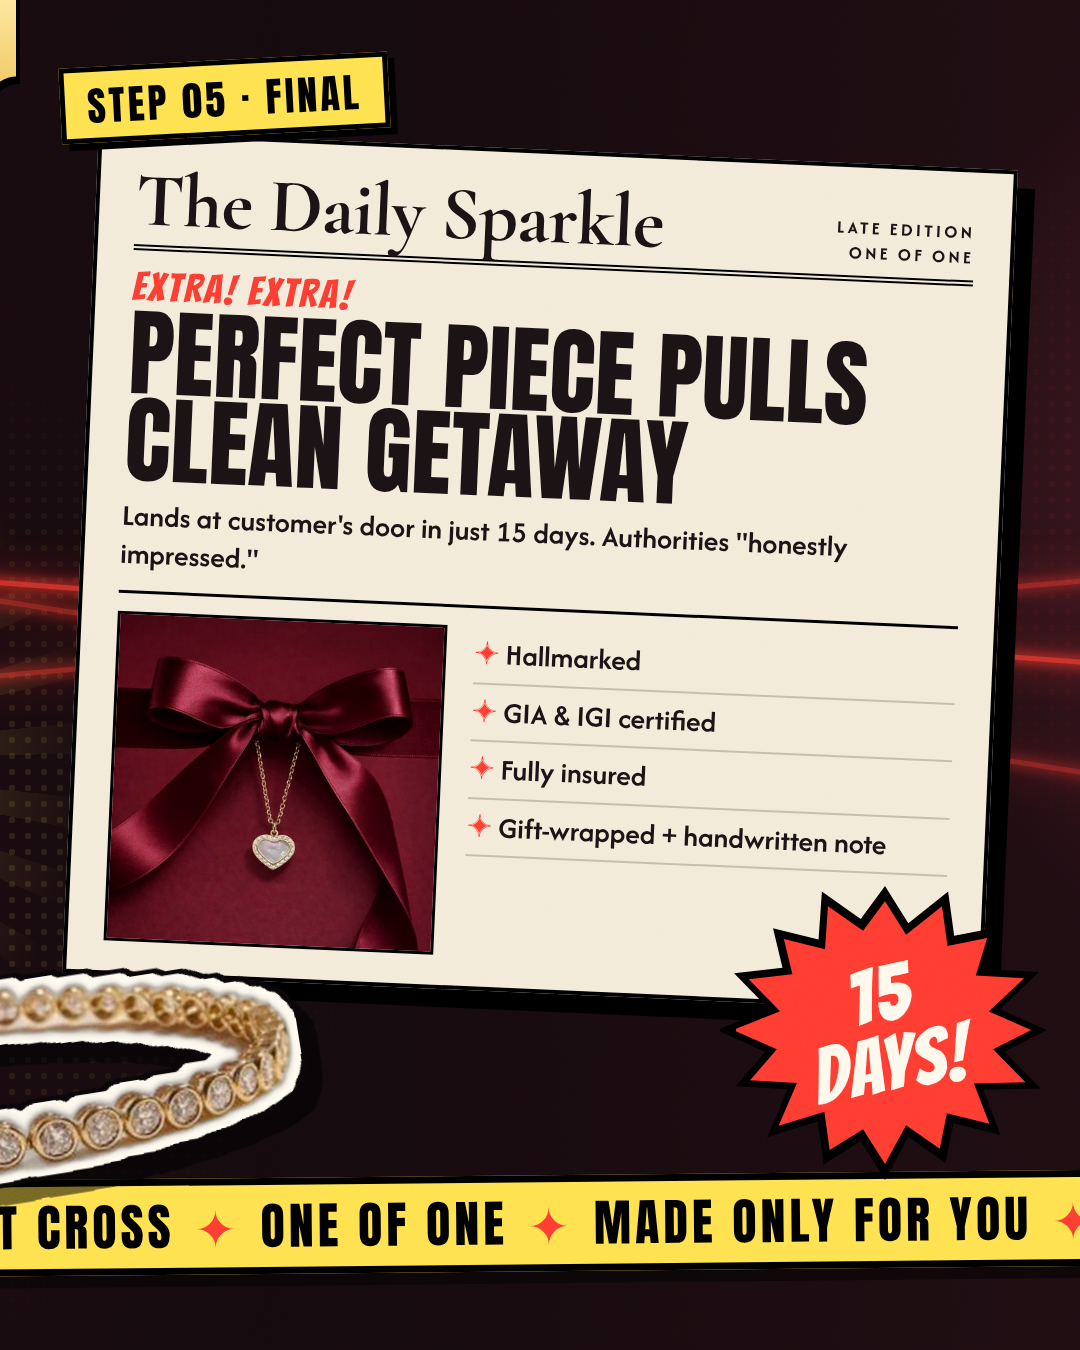
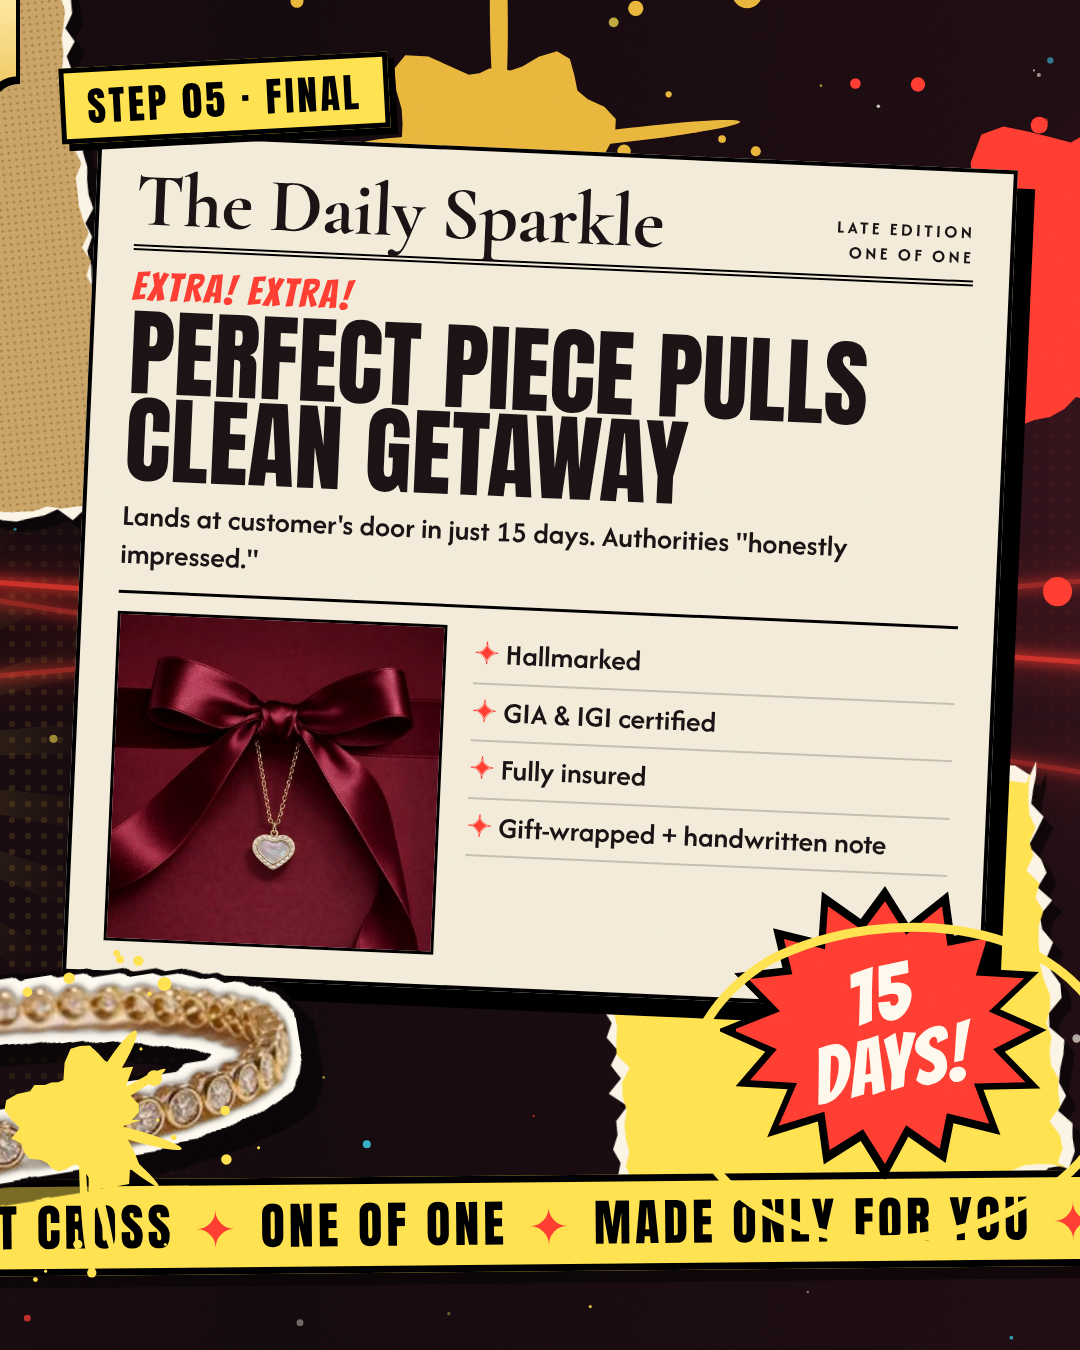
Heist carousel: add torn paper, paint splatter, ransom letters and marker scribbles
Claude-Session: https://claude.ai/code/session_01VXfb5SGCGkjs1XorxtizRz

diff --git a/carousels/takshila-heist/heist.html b/carousels/takshila-heist/heist.html
@@ -48,7 +48,7 @@ body{background:#000;padding:0}
 .x3d.iv{color:var(--ivory)} .x3d.cy{color:var(--cyan)} .x3d.rd{color:var(--red)}
 .bang{font-family:var(--B);letter-spacing:.03em;color:var(--ivory);-webkit-text-stroke:4px #000;paint-order:stroke fill;text-shadow:6px 6px 0 #000}
 .pill{display:inline-block;font:400 40px/1 var(--A);letter-spacing:.08em;text-transform:uppercase;background:var(--yel);color:#000;padding:14px 22px 12px;border:5px solid #000;box-shadow:7px 7px 0 #000;transform:rotate(-3deg)}
-.body{font:600 34px/1.3 var(--S);color:var(--ivory);text-shadow:0 2px 0 #000}
+.body{font:600 34px/1.3 var(--S);color:var(--ivory);background:#0A0608;padding:12px 18px;box-shadow:7px 7px 0 rgba(255,59,48,.9);transform:rotate(-1deg)}
 .body em{font-style:normal;color:var(--yel)}
 .marker{font-family:var(--M);color:var(--yel)}
 
@@ -105,6 +105,23 @@ body{background:#000;padding:0}
 .logo{position:absolute;height:58px;z-index:50;filter:drop-shadow(4px 4px 0 #000)}
 .edge{position:absolute;right:26px;top:50%;z-index:60;font:400 64px/1 var(--B);color:var(--yel);-webkit-text-stroke:3px #000;paint-order:stroke fill;transform:translateY(-50%)}
 .n{position:absolute;font:400 760px/.8 var(--A);color:transparent;-webkit-text-stroke:4px rgba(255,225,77,.13);z-index:0}
+
+/* ===== chaos layer: torn paper, splatter, ransom ===== */
+.tw{position:absolute;filter:drop-shadow(9px 12px 0 rgba(0,0,0,.55))}
+.tw .torn{position:absolute;inset:0}
+.tw .base{background:#FBF4E4}
+.tw .face{inset:10px;background:var(--pc,#FF3B30)}
+.tw.news .face{background:#E9DFC8;background-image:
+  repeating-linear-gradient(0deg,rgba(30,20,20,.28) 0 3px,transparent 3px 11px),
+  linear-gradient(90deg,transparent 0 31%,#E9DFC8 31% 34%,transparent 34% 64%,#E9DFC8 64% 67%,transparent 67%)}
+.tw.news .face::before{content:"";position:absolute;left:6%;right:6%;top:8%;height:38px;background:rgba(20,10,10,.75)}
+.tw.kraft .face{background:#C79F62;background-image:radial-gradient(rgba(90,55,20,.35) 1px,transparent 1.5px);background-size:7px 7px}
+.tw.dot .face{background-color:var(--pc);background-image:radial-gradient(circle,rgba(0,0,0,.22) 3px,transparent 3.6px);background-size:14px 14px}
+#splat{position:absolute;left:0;top:0;width:7560px;height:1350px;pointer-events:none;z-index:4}
+#splatTop{position:absolute;left:0;top:0;width:7560px;height:1350px;pointer-events:none;z-index:45}
+.ransom{display:inline-flex;gap:6px;align-items:center;flex-wrap:nowrap}
+.ransom b{display:inline-block;padding:8px 10px 4px;border:3px solid #000;box-shadow:4px 4px 0 #000;line-height:1;font-weight:400}
+.ransom .sp{width:18px;border:0;box-shadow:none;padding:0;background:none}
 </style>
 </head>
 <body>
@@ -119,7 +136,32 @@ body{background:#000;padding:0}
   <div class="dots" style="left:4300px;top:300px;width:1500px;height:1100px;opacity:.2"></div>
   <div class="dots" style="left:6300px;top:-100px;width:1400px;height:1200px;opacity:.22;--c:#FF3B30"></div>
 
-  <!-- ===== caution tape across all slides ===== -->
+  <!-- ===== chaos: torn paper ===== -->
+<div class="tw dot" data-seed="3" style="left:-60px;top:640px;width:880px;height:480px;transform:rotate(-4deg);z-index:3;--pc:#FF3B30"><div class="torn base"></div><div class="torn face"></div></div>
+<div class="tw news" data-seed="5" style="left:640px;top:30px;width:500px;height:250px;transform:rotate(7deg);z-index:3;--pc:"><div class="torn base"></div><div class="torn face"></div></div>
+<div class="tw kraft" data-seed="8" style="left:960px;top:420px;width:190px;height:640px;transform:rotate(9deg);z-index:3;--pc:"><div class="torn base"></div><div class="torn face"></div></div>
+<div class="tw " data-seed="11" style="left:1380px;top:150px;width:720px;height:360px;transform:rotate(3deg);z-index:3;--pc:#3DE0FF"><div class="torn base"></div><div class="torn face"></div></div>
+<div class="tw news" data-seed="13" style="left:1960px;top:980px;width:360px;height:200px;transform:rotate(-8deg);z-index:3;--pc:"><div class="torn base"></div><div class="torn face"></div></div>
+<div class="tw " data-seed="17" style="left:2190px;top:360px;width:360px;height:300px;transform:rotate(-11deg);z-index:3;--pc:#FFE14D"><div class="torn base"></div><div class="torn face"></div></div>
+<div class="tw news" data-seed="19" style="left:3060px;top:970px;width:460px;height:230px;transform:rotate(6deg);z-index:3;--pc:"><div class="torn base"></div><div class="torn face"></div></div>
+<div class="tw dot" data-seed="23" style="left:3280px;top:130px;width:850px;height:380px;transform:rotate(-2deg);z-index:3;--pc:#6D3B54"><div class="torn base"></div><div class="torn face"></div></div>
+<div class="tw kraft" data-seed="29" style="left:4180px;top:820px;width:300px;height:420px;transform:rotate(-7deg);z-index:3;--pc:"><div class="torn base"></div><div class="torn face"></div></div>
+<div class="tw dot" data-seed="31" style="left:4350px;top:490px;width:560px;height:440px;transform:rotate(3deg);z-index:3;--pc:#FF3B30"><div class="torn base"></div><div class="torn face"></div></div>
+<div class="tw kraft" data-seed="37" style="left:5230px;top:-30px;width:270px;height:560px;transform:rotate(-6deg);z-index:3;--pc:"><div class="torn base"></div><div class="torn face"></div></div>
+<div class="tw " data-seed="41" style="left:6000px;top:780px;width:460px;height:420px;transform:rotate(-5deg);z-index:3;--pc:#FFE14D"><div class="torn base"></div><div class="torn face"></div></div>
+<div class="tw " data-seed="47" style="left:6500px;top:440px;width:900px;height:430px;transform:rotate(3deg);z-index:3;--pc:#3DE0FF"><div class="torn base"></div><div class="torn face"></div></div>
+<svg id="splat" viewBox="0 0 7560 1350"></svg>
+<svg id="splatTop" viewBox="0 0 7560 1350"></svg>
+<svg class="abs" viewBox="0 0 7560 1350" style="left:0;top:0;width:7560px;height:1350px;z-index:46;pointer-events:none" fill="none" stroke-linecap="round" stroke-linejoin="round">
+  <!-- marker scribbles -->
+  <path d="M2290 1130 l60 60 M2350 1130 l-60 60" stroke="#FF3B30" stroke-width="14"/>
+  <path d="M6170 960 c120 -60 300 -40 340 80 c40 140 -160 230 -300 190 c-140 -40 -170 -190 -40 -270" stroke="#FFE14D" stroke-width="9"/>
+  <path d="M120 1160 q60 -30 120 0 t120 0 t120 0 t120 0" stroke="#3DE0FF" stroke-width="9"/>
+  <path d="M1000 330 c60 -40 150 -30 200 10 l-14 -40 m14 40 l-44 4" stroke="#FFF8EC" stroke-width="8"/>
+  <path d="M3950 120 l20 -50 l20 50 l-50 -30 h60 z" stroke="#FFE14D" stroke-width="7"/>
+  <path d="M7330 330 l18 -44 l18 44 l-46 -27 h56 z" stroke="#FFF8EC" stroke-width="7"/>
+</svg>
+<!-- ===== caution tape across all slides ===== -->
   <div class="caution" id="caution"></div>
 
   <!-- ===== seam-crossing hero pieces ===== -->
@@ -138,7 +180,7 @@ body{background:#000;padding:0}
 
     <div class="abs bang" style="left:70px;top:690px;font-size:118px;transform:rotate(-6deg);z-index:24;color:var(--cyan)">THE</div>
     <div class="abs x3d" style="left:46px;top:760px;font-size:350px;z-index:23">HEIST</div>
-    <div class="abs" style="left:470px;top:690px;z-index:24;transform:rotate(-4deg)"><span class="pill" style="background:var(--red);color:var(--ivory);font-size:46px">of your life</span></div>
+    <div class="abs" style="left:330px;top:680px;z-index:24;transform:rotate(-4deg)"><span class="ransom" data-text="OF YOUR LIFE"></span></div>
     <div class="abs body" style="left:60px;top:1090px;z-index:24;font-size:32px">5 steps. 15 days. One piece nobody else has.</div>
     <div class="edge" style="top:1110px;right:40px">SWIPE ▶▶</div>
   </div>
@@ -266,6 +308,63 @@ document.getElementById('caution').innerHTML=t.repeat(9);
 const v=document.getElementById('vault');
 for(let i=0;i<12;i++){const a=i*Math.PI/6,el=document.createElement('div');el.className='bolt';
   el.style.left=`calc(50% + ${Math.cos(a)*44}% - 21px)`;el.style.top=`calc(50% + ${Math.sin(a)*44}% - 21px)`;v.appendChild(el)}
+
+// ---------- chaos helpers ----------
+function rng(seed){let t=seed*9301+49297;return()=>{t=(t*1103515245+12345)%2147483648;return t/2147483648}}
+// torn paper: jagged polygon on all four edges
+document.querySelectorAll('.tw').forEach(w=>{
+  const W=w.offsetWidth,H=w.offsetHeight,seed=+w.dataset.seed;
+  [['base',0,15],['face',10,9]].forEach(([cls,ins,amp],k)=>{
+    const R=rng(seed*7+k*131),pts=[],w2=W-2*ins,h2=H-2*ins,step=14;
+    const j=()=> (R()-.5)*amp + (R()<.12?(R()-.5)*amp*2.2:0);
+    for(let x=0;x<=w2;x+=step) pts.push([x,Math.max(0,amp/2+j())]);
+    for(let y=0;y<=h2;y+=step) pts.push([w2-Math.max(0,amp/2+j()),y]);
+    for(let x=w2;x>=0;x-=step) pts.push([x,h2-Math.max(0,amp/2+j())]);
+    for(let y=h2;y>=0;y-=step) pts.push([Math.max(0,amp/2+j()),y]);
+    w.querySelector('.'+cls).style.clipPath='polygon('+pts.map(p=>p[0].toFixed(1)+'px '+p[1].toFixed(1)+'px').join(',')+')';
+  });
+});
+// paint splatter: wobbly blob + flung droplets + spikes + drips
+const NS='http://www.w3.org/2000/svg';
+function splat(svg,x,y,r,col,seed,drips=2){
+  const R=rng(seed),g=document.createElementNS(NS,'g');g.setAttribute('fill',col);
+  let d='',N=48;const ph=[R()*6,R()*6,R()*6];
+  for(let i=0;i<=N;i++){const a=i/N*Math.PI*2;
+    const rr=r*(1+.18*Math.sin(a*3+ph[0])+.12*Math.sin(a*5+ph[1])+.08*Math.sin(a*9+ph[2])+(R()<.15?.25*R():0));
+    d+=(i?'L':'M')+(x+rr*Math.cos(a)).toFixed(1)+' '+(y+rr*Math.sin(a)).toFixed(1);}
+  const p=document.createElementNS(NS,'path');p.setAttribute('d',d+'Z');g.appendChild(p);
+  for(let i=0;i<7;i++){const a=R()*Math.PI*2,L=r*(1.2+R()*1.1),wd=r*(.06+R()*.08);   // spikes
+    const e=document.createElementNS(NS,'ellipse');const cx=x+Math.cos(a)*L*.6,cy=y+Math.sin(a)*L*.6;
+    e.setAttribute('cx',cx);e.setAttribute('cy',cy);e.setAttribute('rx',L*.5);e.setAttribute('ry',wd);
+    e.setAttribute('transform',`rotate(${a*180/Math.PI} ${cx} ${cy})`);g.appendChild(e);}
+  for(let i=0;i<26;i++){const a=R()*Math.PI*2,D=r*(1.15+R()*1.9),c=document.createElementNS(NS,'circle');
+    c.setAttribute('cx',x+Math.cos(a)*D);c.setAttribute('cy',y+Math.sin(a)*D);c.setAttribute('r',r*(.025+R()*R()*.16));g.appendChild(c);}
+  for(let i=0;i<drips;i++){const dx=x+(R()-.5)*r*1.2,len=r*(.8+R()*1.8),wd=r*(.08+R()*.08),
+    rc=document.createElementNS(NS,'rect');rc.setAttribute('x',dx-wd/2);rc.setAttribute('y',y);rc.setAttribute('width',wd);rc.setAttribute('height',len);rc.setAttribute('rx',wd/2);g.appendChild(rc);
+    const c=document.createElementNS(NS,'circle');c.setAttribute('cx',dx);c.setAttribute('cy',y+len);c.setAttribute('r',wd*.75);g.appendChild(c);}
+  svg.appendChild(g);
+}
+const Y='#FFE14D',Rd='#FF3B30',C='#3DE0FF',I='#FFF8EC',G='#E8B33A';
+const under=document.getElementById('splat'),over=document.getElementById('splatTop');
+[[300,1010,120,Rd],[1560,1190,110,Y],[2140,250,130,Rd],[3250,700,150,Y],[4250,1170,150,C],[6450,300,140,Rd],[7300,880,120,C],
+ [700,430,90,C],[2800,1080,100,I],[5000,620,120,Y],[5900,150,100,G],[3700,1150,90,Rd],[4700,140,70,I]]
+ .forEach((a,i)=>splat(under,...a,101+i*17,2+(i%3)));
+[[985,135,70,C],[3020,1110,60,C],[4990,345,55,Rd],[5480,1120,60,Y],[7460,1140,55,I],[1960,90,45,Y],[2600,330,40,Rd],[150,600,40,I]]
+ .forEach((a,i)=>splat(over,...a,501+i*29,1));
+// spray specks everywhere
+{const R=rng(77);for(let i=0;i<520;i++){const c=document.createElementNS(NS,'circle');
+  c.setAttribute('cx',R()*7560);c.setAttribute('cy',R()*1350);c.setAttribute('r',1+R()*R()*7);
+  c.setAttribute('fill',[Y,Rd,C,I][i%4]);c.setAttribute('opacity',.35+R()*.5);under.appendChild(c);}}
+// ransom-note letters
+document.querySelectorAll('.ransom').forEach(el=>{
+  const R=rng(9),fonts=["'Anton'","'Bangers'","'Permanent Marker'","'Cormorant Garamond'","'Afacad Flux'"],
+  bgs=[['#FFF8EC','#111'],['#FF3B30','#FFF8EC'],['#111','#FFE14D'],['#3DE0FF','#111'],['#FFE14D','#111'],['#E9DFC8','#B3261E']];
+  [...el.dataset.text].forEach((ch,i)=>{const b=document.createElement('b');
+    if(ch===' '){b.className='sp';el.appendChild(b);return}
+    const [bg,fg]=bgs[i%bgs.length];b.textContent=ch;
+    b.style.cssText=`font-family:${fonts[(i*3)%fonts.length]};font-size:${38+R()*16|0}px;background:${bg};color:${fg};transform:rotate(${(R()-.5)*16}deg) translateY(${(R()-.5)*14}px)`;
+    el.appendChild(b);});
+});
 </script>
 </body>
 </html>
